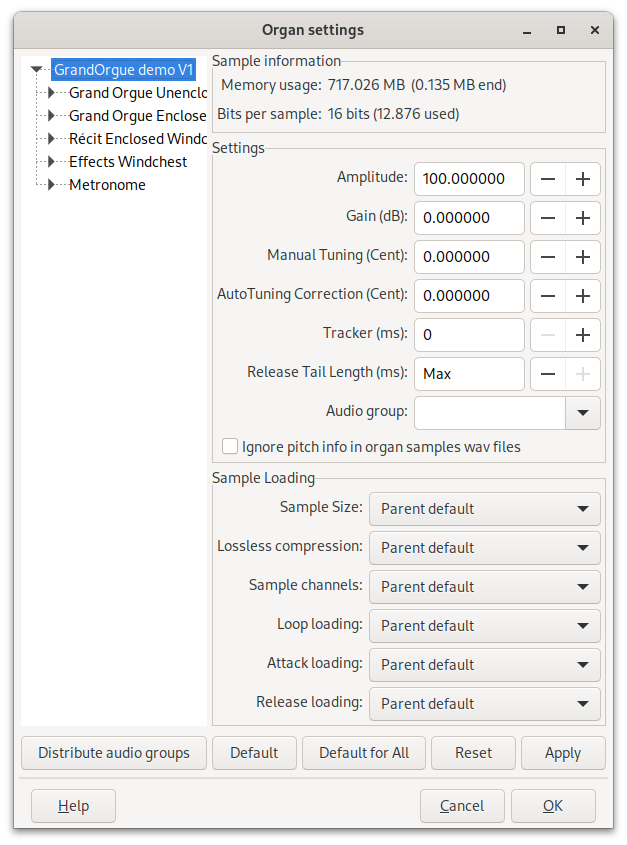
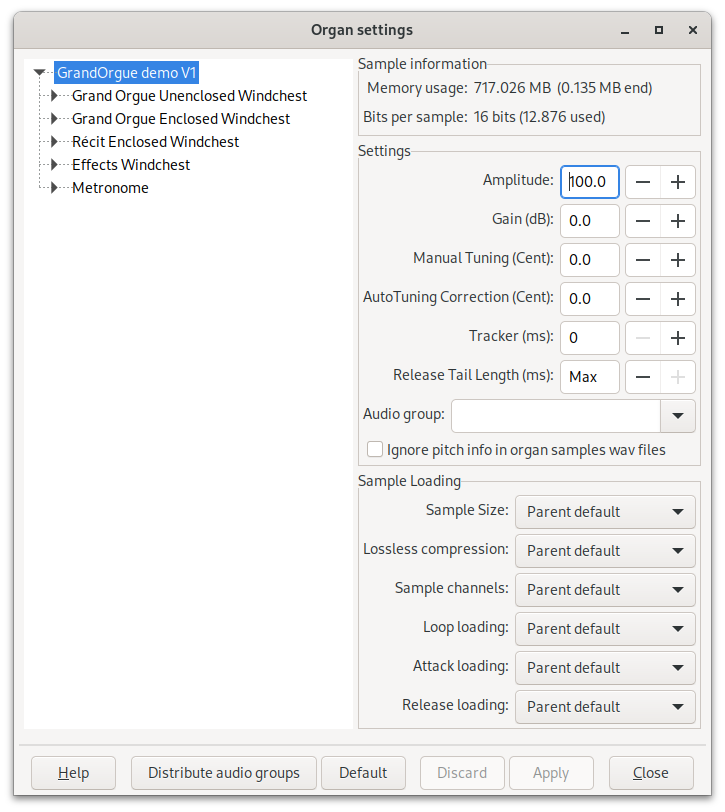
Moved all Organ Settings dialog buttons to the single button row https://github.com/GrandOrgue/grandorgue/issues/1674 (#1697)

Changed region(s): [[0.0, 0.0308, 1.0, 0.9852], [0.3333, 0.8313, 0.3636, 0.8621]]

diff --git a/src/grandorgue/dialogs/GOOrganSettingsDialog.cpp b/src/grandorgue/dialogs/GOOrganSettingsDialog.cpp
@@ -118,7 +118,7 @@ static const unsigned RELEASE_LENGTH_MAX = 3000;
 static const unsigned RELEASE_LENGTH_STEP = 50;
 static const unsigned RELEASE_LENGTH_MAX_INDEX
   = RELEASE_LENGTH_MAX / RELEASE_LENGTH_STEP;
-static const wxSize EDIT_SIZE = wxSize(50, -1);
+static const wxSize EDIT_SIZE = wxSize(60, -1);
 
 GOOrganSettingsDialog::GOOrganSettingsDialog(
   GODocumentBase *doc, wxWindow *parent, GOOrganController *organController)
@@ -142,7 +142,7 @@ GOOrganSettingsDialog::GOOrganSettingsDialog(
     this,
     ID_EVENT_TREE,
     wxDefaultPosition,
-    wxSize(300, 100),
+    wxDefaultSize,
     wxTR_HAS_BUTTONS | wxTR_MULTIPLE);
   mainSizer->Add(
     m_Tree,
@@ -175,7 +175,7 @@ GOOrganSettingsDialog::GOOrganSettingsDialog(
   grid->Add(m_BitDisplay);
   box1->Add(grid, 0, wxEXPAND | wxALL, 5);
   mainSizer->Add(
-    box1, wxGBPosition(0, 1), wxGBSpan(1, 4), wxEXPAND | wxRIGHT, 5);
+    box1, wxGBPosition(0, 1), wxDefaultSpan, wxEXPAND | wxRIGHT, 5);
 
   box1 = new wxStaticBoxSizer(wxVERTICAL, this, _("Settings"));
 
@@ -184,45 +184,45 @@ GOOrganSettingsDialog::GOOrganSettingsDialog(
   gb->Add(
     new wxStaticText(this, wxID_ANY, _("Amplitude:")),
     wxGBPosition(0, 0),
-    wxDefaultSpan,
+    wxGBSpan(1, 2),
     wxALIGN_RIGHT | wxALIGN_CENTER_VERTICAL | wxBOTTOM,
     5);
   m_Amplitude = new wxTextCtrl(
     this, ID_EVENT_AMPLITUDE, wxEmptyString, wxDefaultPosition, EDIT_SIZE);
-  gb->Add(m_Amplitude, wxGBPosition(0, 1), wxDefaultSpan, wxEXPAND);
+  gb->Add(m_Amplitude, wxGBPosition(0, 2), wxDefaultSpan, wxEXPAND);
   m_AmplitudeSpin = new wxSpinButton(this, ID_EVENT_AMPLITUDE_SPIN);
   m_AmplitudeSpin->SetRange(0, 1000);
-  gb->Add(m_AmplitudeSpin, wxGBPosition(0, 2), wxDefaultSpan);
+  gb->Add(m_AmplitudeSpin, wxGBPosition(0, 3), wxDefaultSpan);
 
   gb->Add(
     new wxStaticText(this, wxID_ANY, _("Gain (dB):")),
     wxGBPosition(1, 0),
-    wxDefaultSpan,
+    wxGBSpan(1, 2),
     wxALIGN_RIGHT | wxALIGN_CENTER_VERTICAL | wxBOTTOM,
     5);
   m_Gain = new wxTextCtrl(
     this, ID_EVENT_GAIN, wxEmptyString, wxDefaultPosition, EDIT_SIZE);
-  gb->Add(m_Gain, wxGBPosition(1, 1), wxDefaultSpan, wxEXPAND);
+  gb->Add(m_Gain, wxGBPosition(1, 2), wxDefaultSpan, wxEXPAND);
   m_GainSpin = new wxSpinButton(this, ID_EVENT_GAIN_SPIN);
   m_GainSpin->SetRange(-120, 40);
-  gb->Add(m_GainSpin, wxGBPosition(1, 2), wxDefaultSpan);
+  gb->Add(m_GainSpin, wxGBPosition(1, 3), wxDefaultSpan);
 
   gb->Add(
     new wxStaticText(this, wxID_ANY, _("Manual Tuning (Cent):")),
     wxGBPosition(2, 0),
-    wxDefaultSpan,
+    wxGBSpan(1, 2),
     wxALIGN_RIGHT | wxALIGN_CENTER_VERTICAL | wxBOTTOM,
     5);
   m_ManualTuning = new wxTextCtrl(
     this, ID_EVENT_MANUAL_TUNING, wxEmptyString, wxDefaultPosition, EDIT_SIZE);
-  gb->Add(m_ManualTuning, wxGBPosition(2, 1), wxDefaultSpan, wxEXPAND);
+  gb->Add(m_ManualTuning, wxGBPosition(2, 2), wxDefaultSpan, wxEXPAND);
   m_ManualTuningSpin = new wxSpinButton(this, ID_EVENT_MANUAL_TUNING_SPIN);
   m_ManualTuningSpin->SetRange(-1800, 1800);
-  gb->Add(m_ManualTuningSpin, wxGBPosition(2, 2));
+  gb->Add(m_ManualTuningSpin, wxGBPosition(2, 3));
   gb->Add(
     new wxStaticText(this, wxID_ANY, _("AutoTuning Correction (Cent):")),
     wxGBPosition(3, 0),
-    wxDefaultSpan,
+    wxGBSpan(1, 2),
     wxALIGN_RIGHT | wxALIGN_CENTER_VERTICAL | wxBOTTOM,
     5);
   m_AutoTuningCorrection = new wxTextCtrl(
@@ -231,37 +231,37 @@ GOOrganSettingsDialog::GOOrganSettingsDialog(
     wxEmptyString,
     wxDefaultPosition,
     EDIT_SIZE);
-  gb->Add(m_AutoTuningCorrection, wxGBPosition(3, 1), wxDefaultSpan, wxEXPAND);
+  gb->Add(m_AutoTuningCorrection, wxGBPosition(3, 2), wxDefaultSpan, wxEXPAND);
   m_AutoTuningCorrectionSpin
     = new wxSpinButton(this, ID_EVENT_AUTO_TUNING_CORRECTION_SPIN);
   m_AutoTuningCorrectionSpin->SetRange(-1800, 1800);
-  gb->Add(m_AutoTuningCorrectionSpin, wxGBPosition(3, 2));
+  gb->Add(m_AutoTuningCorrectionSpin, wxGBPosition(3, 3));
 
   gb->Add(
     new wxStaticText(this, wxID_ANY, _("Tracker (ms):")),
     wxGBPosition(4, 0),
-    wxDefaultSpan,
+    wxGBSpan(1, 2),
     wxALIGN_RIGHT | wxALIGN_CENTER_VERTICAL | wxBOTTOM,
     5);
   m_Delay = new wxTextCtrl(
     this, ID_EVENT_DELAY, wxEmptyString, wxDefaultPosition, EDIT_SIZE);
-  gb->Add(m_Delay, wxGBPosition(4, 1), wxDefaultSpan, wxEXPAND);
+  gb->Add(m_Delay, wxGBPosition(4, 2), wxDefaultSpan, wxEXPAND);
   m_DelaySpin = new wxSpinButton(this, ID_EVENT_DELAY_SPIN);
   m_DelaySpin->SetRange(0, 10000);
-  gb->Add(m_DelaySpin, wxGBPosition(4, 2), wxDefaultSpan);
+  gb->Add(m_DelaySpin, wxGBPosition(4, 3), wxDefaultSpan);
 
   gb->Add(
     new wxStaticText(this, wxID_ANY, _("Release Tail Length (ms):")),
     wxGBPosition(5, 0),
-    wxDefaultSpan,
+    wxGBSpan(1, 2),
     wxALIGN_RIGHT | wxALIGN_CENTER_VERTICAL | wxBOTTOM,
     5);
   m_ReleaseLength = new wxTextCtrl(
     this, ID_EVENT_RELEASE_LENGTH, wxEmptyString, wxDefaultPosition, EDIT_SIZE);
-  gb->Add(m_ReleaseLength, wxGBPosition(5, 1), wxDefaultSpan, wxEXPAND);
+  gb->Add(m_ReleaseLength, wxGBPosition(5, 2), wxDefaultSpan, wxEXPAND);
   m_ReleaseLengthSpin = new wxSpinButton(this, ID_EVENT_RELEASE_LENGTH_SPIN);
   m_ReleaseLengthSpin->SetRange(0, RELEASE_LENGTH_MAX_INDEX);
-  gb->Add(m_ReleaseLengthSpin, wxGBPosition(5, 2), wxDefaultSpan);
+  gb->Add(m_ReleaseLengthSpin, wxGBPosition(5, 3), wxDefaultSpan);
 
   gb->Add(
     new wxStaticText(this, wxID_ANY, _("Audio group:")),
@@ -278,7 +278,7 @@ GOOrganSettingsDialog::GOOrganSettingsDialog(
     m_AudioGroup->Append(audio_groups[i]);
   m_AudioGroup->SetValue(wxT(" "));
   m_LastAudioGroup = m_AudioGroup->GetValue();
-  gb->Add(m_AudioGroup, wxGBPosition(6, 1), wxGBSpan(1, 2), wxEXPAND);
+  gb->Add(m_AudioGroup, wxGBPosition(6, 1), wxGBSpan(1, 3), wxEXPAND);
 
   gb->Add(
     m_IgnorePitch = new wxCheckBox(
@@ -286,14 +286,14 @@ GOOrganSettingsDialog::GOOrganSettingsDialog(
       ID_EVENT_IGNORE_PITCH,
       _("Ignore pitch info in organ samples wav files")),
     wxGBPosition(7, 0),
-    wxGBSpan(1, 2),
-    wxALIGN_RIGHT | wxALIGN_CENTER_VERTICAL,
+    wxGBSpan(1, 4),
+    wxALIGN_LEFT | wxALIGN_CENTER_VERTICAL,
     5);
 
-  gb->AddGrowableCol(1, 1);
+  gb->AddGrowableCol(2, 1);
   box1->Add(gb, 0, wxEXPAND | wxALL, 5);
   mainSizer->Add(
-    box1, wxGBPosition(1, 1), wxGBSpan(1, 4), wxEXPAND | wxRIGHT, 5);
+    box1, wxGBPosition(1, 1), wxDefaultSpan, wxEXPAND | wxRIGHT, 5);
 
   box1 = new wxStaticBoxSizer(wxVERTICAL, this, _("Sample Loading"));
   grid = new wxFlexGridSizer(2, 5, 5);
@@ -396,22 +396,36 @@ GOOrganSettingsDialog::GOOrganSettingsDialog(
   m_LastReleaseLoad = m_ReleaseLoad->GetSelection();
   box1->Add(grid, 0, wxEXPAND | wxALL, 5);
   mainSizer->Add(
-    box1, wxGBPosition(2, 1), wxGBSpan(1, 4), wxEXPAND | wxRIGHT, 5);
+    box1, wxGBPosition(2, 1), wxDefaultSpan, wxEXPAND | wxRIGHT, 5);
 
-  m_AudioGroupAssistant = new wxButton(
-    this, ID_EVENT_AUDIO_GROUP_ASSISTANT, _("Distribute audio groups"));
-  mainSizer->Add(
-    m_AudioGroupAssistant, wxGBPosition(4, 0), wxDefaultSpan, wxLEFT, 5);
-  m_Default = new wxButton(this, ID_EVENT_DEFAULT, _("Default"));
-  mainSizer->Add(m_Default, wxGBPosition(4, 1));
-  m_Discard = new wxButton(this, ID_EVENT_DISCARD, _("Discard"));
-  mainSizer->Add(m_Discard, wxGBPosition(4, 3));
-  m_Apply = new wxButton(this, ID_EVENT_APPLY, _("Apply"));
-  mainSizer->Add(m_Apply, wxGBPosition(4, 4), wxDefaultSpan, wxRIGHT, 5);
+  // add a custom button 'Reason into the space of the standard dialog button
+  wxSizer *const pButtonSizer = GetButtonSizer();
+
+  if (pButtonSizer) {
+    pButtonSizer->InsertSpacer(2, 10);
+    m_AudioGroupAssistant = new wxButton(
+      this, ID_EVENT_AUDIO_GROUP_ASSISTANT, _("Distribute audio groups"));
+    pButtonSizer->Insert(
+      3,
+      m_AudioGroupAssistant,
+      0,
+      wxALIGN_CENTRE_VERTICAL | wxLEFT | wxRIGHT,
+      2);
+    m_Default = new wxButton(this, ID_EVENT_DEFAULT, _("Default"));
+    pButtonSizer->Insert(
+      4, m_Default, 0, wxALIGN_CENTRE_VERTICAL | wxLEFT | wxRIGHT, 2);
+    pButtonSizer->InsertSpacer(6, 10);
+    m_Discard = new wxButton(this, ID_EVENT_DISCARD, _("Discard"));
+    pButtonSizer->Insert(
+      7, m_Discard, 0, wxALIGN_CENTRE_VERTICAL | wxLEFT | wxRIGHT, 2);
+    m_Apply = new wxButton(this, ID_EVENT_APPLY, _("Apply"));
+    pButtonSizer->Insert(
+      8, m_Apply, 0, wxALIGN_CENTRE_VERTICAL | wxLEFT | wxRIGHT, 2);
+    pButtonSizer->InsertSpacer(9, 10);
+  }
 
   LayoutWithInnerSizer(mainSizer);
 }
-
 bool GOOrganSettingsDialog::TransferDataToWindow() {
   FillTree();
   return true;

diff --git a/CHANGELOG.md b/CHANGELOG.md
@@ -1,3 +1,4 @@
+- Moved all Organ Settings dialog buttons to the single button row https://github.com/GrandOrgue/grandorgue/issues/1674
 - Decreased number of decimal digits in the Organ Settings dialog https://github.com/GrandOrgue/grandorgue/issues/1627
 - Added a confirmation box when restoring Organ Settings to default https://github.com/GrandOrgue/grandorgue/issues/1674
 - Replaced the Cancel and OK buttons in the Organ Settings dialog with the single Close button https://github.com/GrandOrgue/grandorgue/issues/1674
